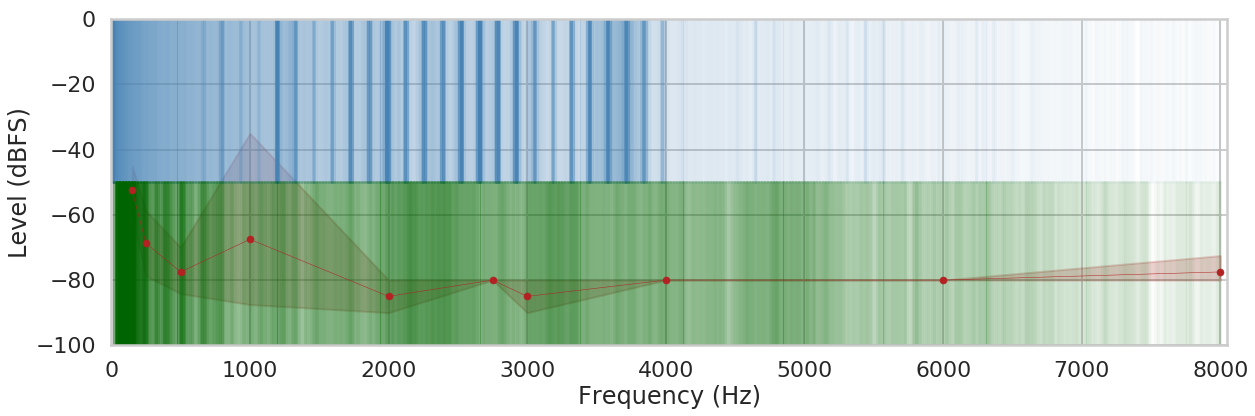
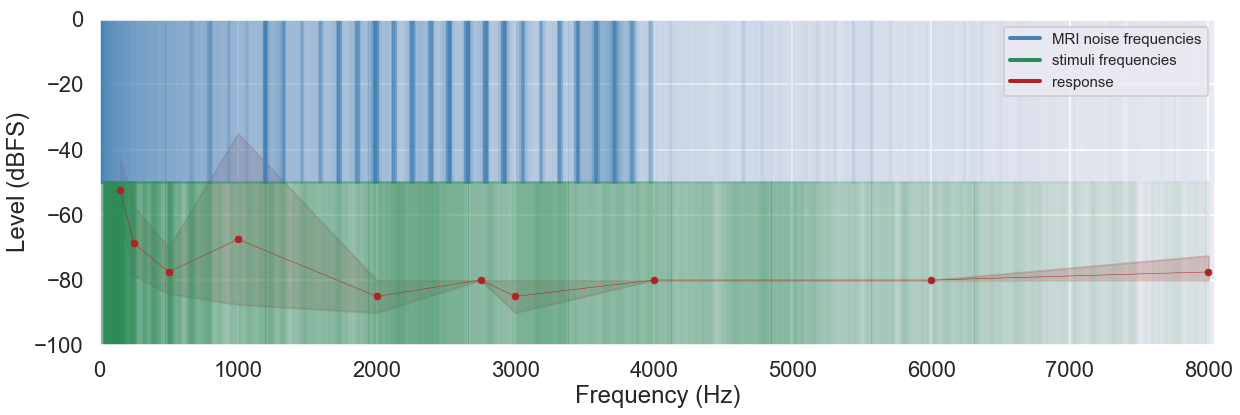
update graphics

diff --git a/README.md b/README.md
@@ -13,7 +13,9 @@
 
 
 ## Description
-ANSL is a toolbox (and hopefully soon BIDS app) for conducting audiometry like measurements in MRI settings. In more detail, it includes adjustable [short experiments](https://github.com/C0C0AN/audiometry_mri/scripts_stimulation) targeting hearing thresholds by presenting a range of frequencies in ascending and descending loudness, the automated analysis of [recorded responses](https://github.com/C0C0AN/audiometry_mri/scripts_analyses), [tutorials regarding stimuli](https://github.com/C0C0AN/audiometry_mri/scripts_stimulation) and plotting functionalities, e.g. plotting hearing thresholds on top of scanner and stimuli frequencies to visualize possible interaction effects (graphic above) and plotting loudness increase and decrease trials in different scanner settings (graphic below).        
+ANSL is a toolbox (and hopefully soon BIDS app) for conducting audiometry like measurements in MRI settings. In more detail, it includes adjustable [short experiments](https://github.com/C0C0AN/audiometry_mri/scripts_stimulation) targeting hearing thresholds by presenting a range of frequencies in ascending and descending loudness, the automated analysis of [recorded responses](https://github.com/C0C0AN/audiometry_mri/scripts_analyses), [tutorials regarding stimuli](https://github.com/C0C0AN/audiometry_mri/scripts_stimulation) and plotting functionalities, e.g. plotting hearing thresholds on top of scanner and stimuli frequencies to visualize possible interaction effects (graphic above), plotting mean hearing thresholds across different scanner settings (graphic below) and plotting loudness increase and decrease trials in different scanner settings (graphic further down).        
+
+![ansl example all](data/ansl_example_all_line.png)
 
 ![ansl example sub](data/ansl_example_all_sub.png)
 
